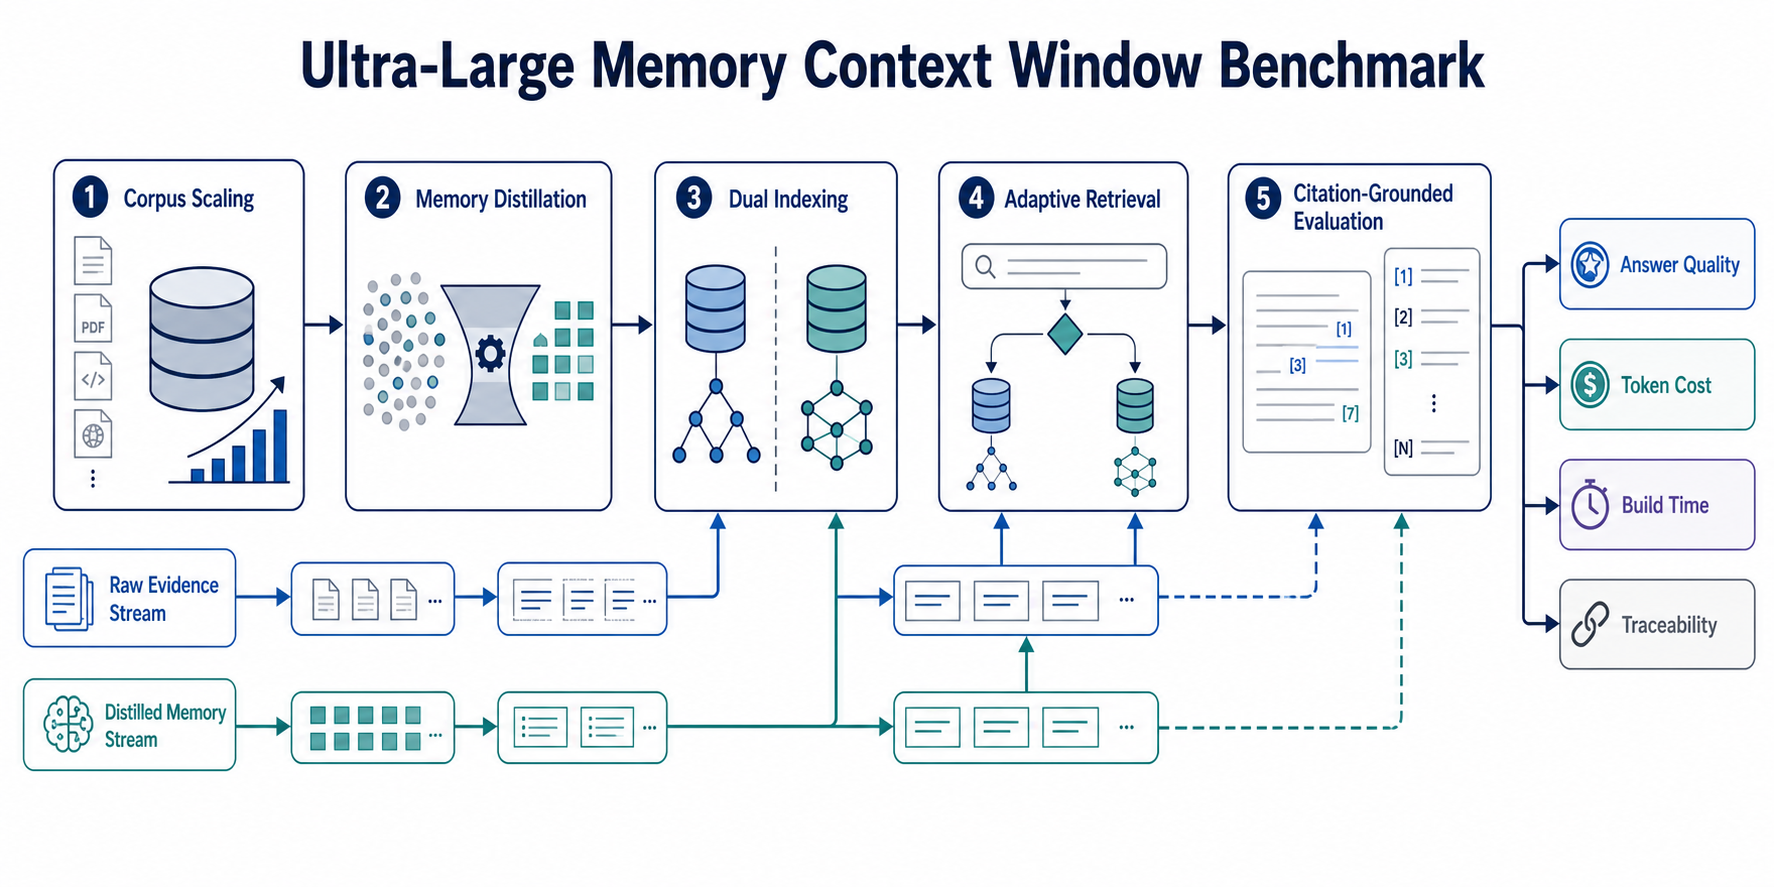
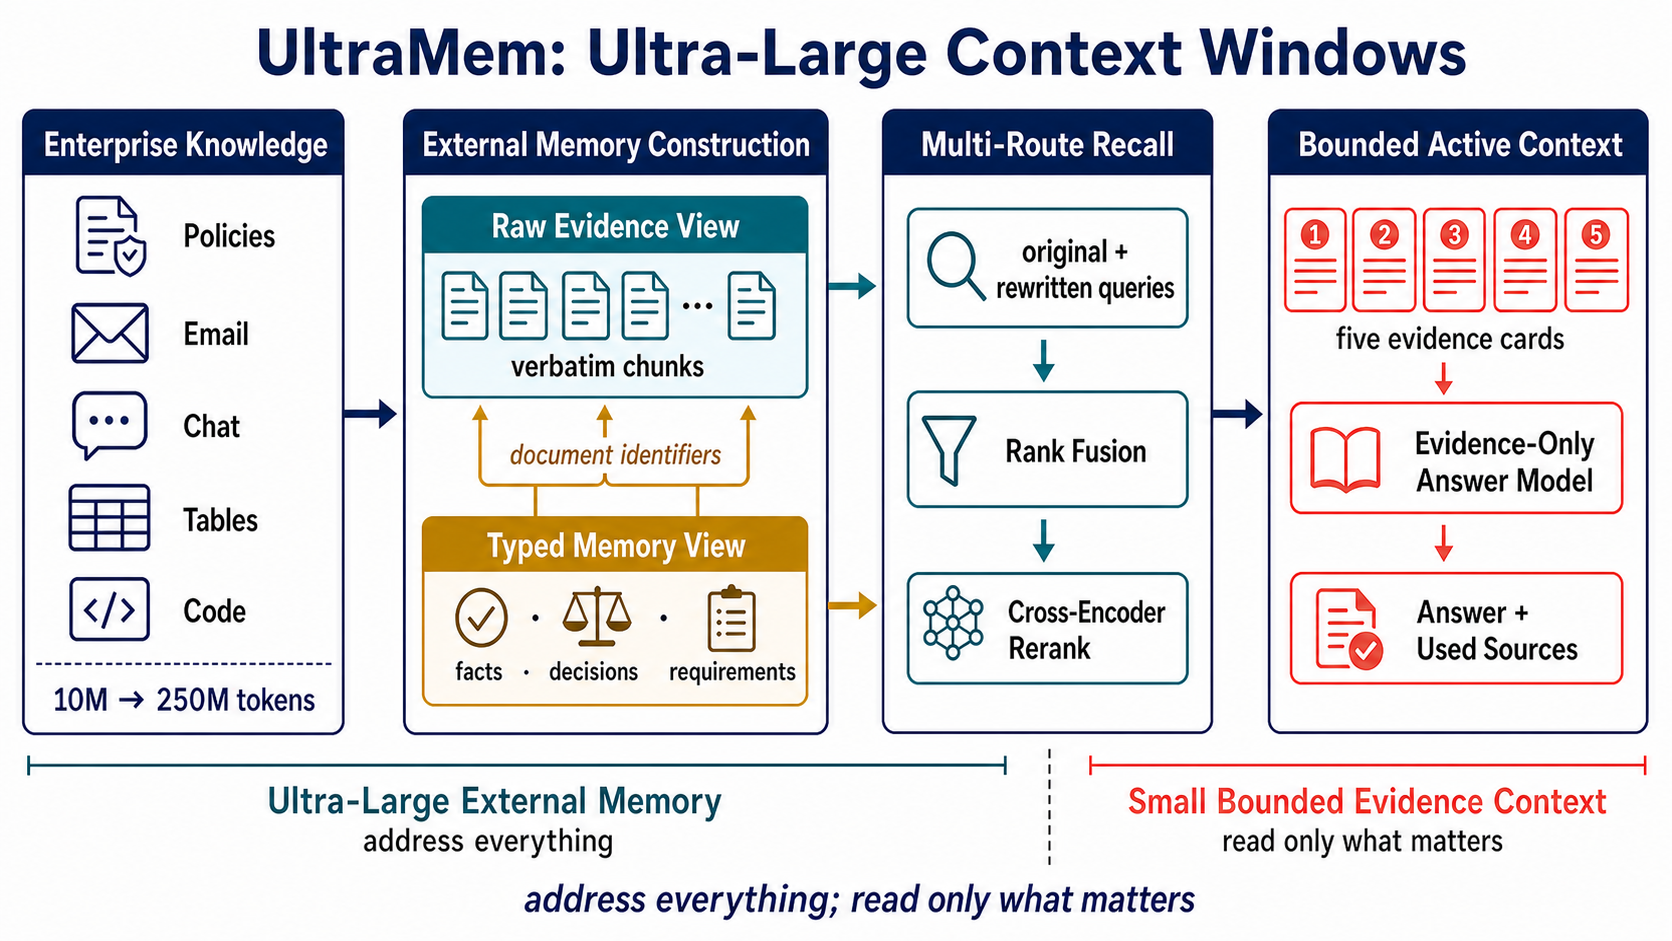
Update pipeline intuition and documentation

Changed region(s): [[0.0, 0.0304, 0.9952, 0.9132], [0.311, 0.9436, 0.7153, 0.9741]]

diff --git a/README.md b/README.md
@@ -10,26 +10,50 @@
 Large Context Window Memory is a method artifact for agents that must reason over
 persistent document collections without flattening those collections into a single
 prompt. The repository is organized as a solution package: it releases the memory
-representation, retrieval path, promotion controls, context
+representation, retrieval path, source-resolution controls, context
 packing, provenance checks, configuration templates, and credential-free tests needed
 to instantiate the method on an authorized corpus.
 
-The central design is a dual-view memory. Each source span is represented as a compact
-distilled node for navigation and a source-linked detailed view for grounding. At query
-time, the system searches the distilled and detailed surfaces, promotes detailed
-payloads only when they are needed, packs a bounded working context, and preserves the
-evidence trail used by the final answer.
+The central design separates the representation used to find evidence from the text
+allowed to support an answer. Each source span has a compact typed record for semantic
+access and a source-text view for exact evidence, connected by immutable document
+identifiers. Original and rewritten queries search both views; fused candidates are
+resolved to source text, reranked, and packed into a bounded evidence context. Only
+after generation does attribution identify the sources used by the answer.
 
 <p align="center">
-  <img src="assets/pipeline.png" alt="Dual-view memory construction, retrieval, reranking, bounded context packing, and citation pipeline">
+  <img src="assets/pipeline.png" alt="UltraMem maps ultra-large persistent memory through dual-view retrieval into a bounded source-faithful evidence context">
 </p>
+
+<p align="center"><em>UltraMem addresses the full memory while reading only the evidence needed for one answer.</em></p>
+
+## Pipeline Intuition
+
+The figure separates four capacities that are often collapsed into a single context
+window:
+
+1. **Persistent-memory capacity** is the complete addressable collection—illustrated
+   with policies, email, chat, tables, and code at scales from 10M to 250M tokens.
+2. **Candidate capacity** is the set reached by multi-route recall. Original and
+   rewritten queries search both the source-text and typed-memory views; identifier
+   resolution reconnects every distilled hit to its source.
+3. **Evidence-context capacity** is the small, fixed budget consumed by the answer
+   model. Rank fusion and cross-encoder reranking decide which source-text chunks enter
+   this budget.
+4. **Reported-source capacity** is the still smaller set retained by post-answer
+   attribution. It records which loaded documents support the completed answer rather
+   than treating every retrieved candidate as a citation.
+
+This separation is the key scaling principle: persistent memory may grow without
+forcing the answer model to reread the full collection, while source resolution keeps
+compressed retrieval records from becoming unsupported answer evidence.
 
 ## Method
 
 The method treats long-context reasoning as a memory-system problem rather than a
-larger-prompt problem. It separates what the agent needs for navigation from what it
-needs for faithful answer generation, then reconnects those views through explicit
-identifiers and provenance records.
+larger-prompt problem. It assigns semantic access, source-faithful generation, and
+attribution to separate stages, then reconnects them through explicit identifiers and
+provenance records.
 
 **Dual-view representation.** `DualNode` is the canonical memory unit. It carries a
 distilled text field for low-cost routing, a detailed text or detail reference for
@@ -42,17 +66,18 @@ detailed evidence remains anchored to the original span. This gives the system a
 semantic surface without discarding the text needed for citation and inspection.
 
 **Dual indexing.** `DualIndex` maintains separate distilled and detailed collections.
-The distilled side returns navigational candidates. The detailed side can be searched
-without loading full text into the answer context, so evidence discovery and evidence
-consumption remain distinct operations.
+Original and rewritten queries search both collections. The distilled side broadens
+semantic access; the source-text side preserves direct matches. Rank fusion combines
+the routes without assuming comparable score scales.
 
-**On-demand promotion.** Detailed payloads are loaded only after the retrieval policy
-chooses to promote them. This keeps the context window focused on useful evidence
-instead of treating every detailed match as prompt material.
+**Source resolution and reranking.** Every distilled hit is mapped back to source text
+before deduplication and cross-encoder reranking. The answer model therefore receives
+verbatim evidence rather than compressed records that may have omitted qualifiers,
+dates, exceptions, or conflicts.
 
-**Budgeted packing.** The context packer combines distilled memories and promoted
-detailed evidence under an explicit budget. The goal is not to maximize prompt volume;
-it is to provide the answer model with a compact, inspectable working set.
+**Budgeted packing.** The context packer admits the highest-ranked source-text chunks
+under an explicit budget. The goal is not to maximize prompt volume; it is to provide
+the answer model with a compact, inspectable working set.
 
 **Provenance and accounting.** Citation extraction, source evidence identifiers, model
 alias resolution, and token-ledger records make the method auditable. The code fails
@@ -62,10 +87,10 @@ loudly when required model aliases are missing or unresolved.
 
 - A dual-view memory schema that keeps distilled navigation and detailed evidence in
   one auditable node contract.
-- A retrieval interface that separates candidate discovery from detailed-context
+- A retrieval design that separates candidate discovery from source-text
   loading.
-- A promotion path for bringing detailed memory into the prompt only when the query
-  requires it.
+- An identifier-resolution path that maps distilled hits back to admissible answer
+  evidence.
 - A package-level configuration boundary that supports general chat-completions-style
   endpoints without committing provider-specific credentials.
 - Credential-free tests for method invariants, package importability, configuration
@@ -154,9 +179,9 @@ large-context-window/
 
 Large-context memory is useful only when sources are available, permitted, and
 traceable. This artifact focuses on the method layer: representation, retrieval,
-promotion, packing, and provenance. Deployment choices such as access control, secret
-management, provider routing, and corpus governance remain the responsibility of the
-deploying environment.
+source resolution, packing, and provenance. Deployment choices such as access control,
+secret management, provider routing, and corpus governance remain the responsibility
+of the deploying environment.
 
 ## License
 
